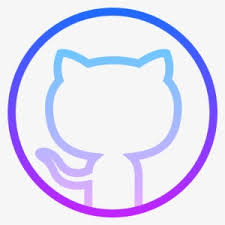
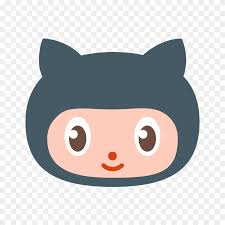
change add login and logout

diff --git a/src/app/navbar/navbar.component.html b/src/app/navbar/navbar.component.html
@@ -1,15 +1,22 @@
 <nav class="navbar navbar-expand-lg navbar-dark bg-dark">
-  <a class="navbar-brand" routerLink="/home">searchGithub</a>
-  <button class="navbar-toggler" type="button" data-toggle="collapse" data-target="#navbarNav" aria-controls="navbarNav"
-    aria-expanded="false" aria-label="Toggle navigation">
-    <span class="navbar-toggler-icon"></span>
-  </button>
-  <div class="collapse navbar-collapse" id="navbarNav">
-    <ul class="navbar-nav">
-      <li class="nav-item">
-        <a class="nav-link" routerLink="gtsearch" routerLinkActive='active'>Search Zone<span
-            class="sr-only">(current)</span></a>
-      </li>
-    </ul>
-  </div>
+    <a class="navbar-brand" routerLink="/home"><img src="assets/images/images.png" alt="" height="60px"> </a>
+    <button class="navbar-toggler" type="button" data-toggle="collapse" data-target="#navbarNavDropdown" aria-controls="navbarNavDropdown" aria-expanded="false" aria-label="Toggle navigation">
+        <span class="navbar-toggler-icon"></span>
+    </button>
+    <div id="navbarNavDropdown" class="navbar-collapse collapse">
+        <ul class="navbar-nav mr-auto">
+            <li class="nav-item">
+                <a class="nav-link" routerLink="gtsearch" routerLinkActive='active'>Search Zone<span
+                    class="sr-only">(current)</span></a>
+              </li>
+        </ul>
+        <ul class="navbar-nav">
+            <li class="nav-item">
+                <a class="nav-link" href="https://github.com/login" target="blank" routerLinkActive='active'>Login</a>
+            </li>
+            <li class="nav-item">
+                <a class="nav-link" href="https://github.com/join" target="blank" routerLinkActive='active'>Register</a>
+            </li>
+        </ul>
+    </div>
 </nav>
